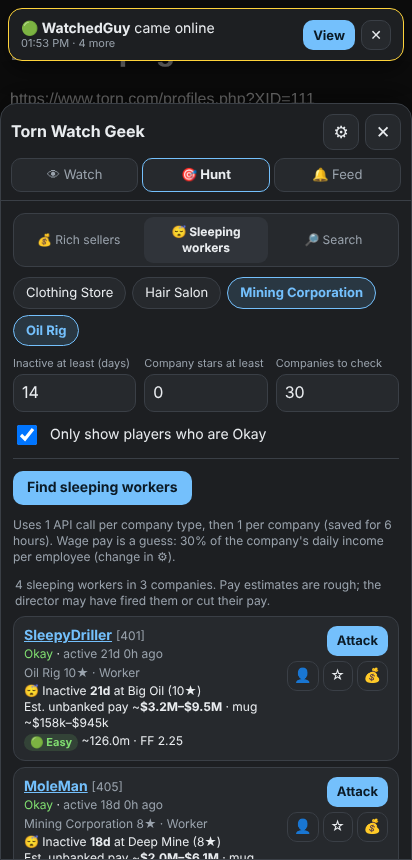
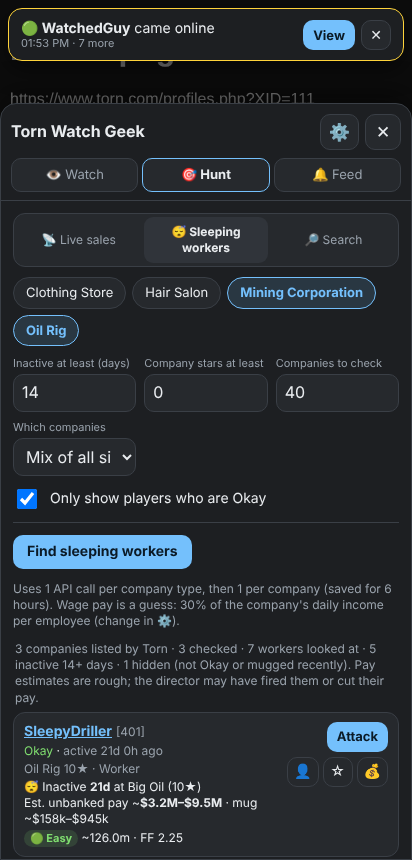
1.1.6: sleeping workers checks a mix of companies and reports every run
- Picks companies spread across the whole list by default (top companies
  fire inactive staff fast); 'Best pay first' still available.
- If Torn refuses the employees selection for other companies, falls back
  to the company profile instead of skipping the company.
- After each run: companies listed/checked, workers looked at, inactive
  found, hidden, failures with Torn's error, and the longest inactive
  worker seen when nothing matched.

Claude-Session: https://claude.ai/code/session_01QZib5gaoEbii82ger62EmG

diff --git a/torn-watch-geek.user.js b/torn-watch-geek.user.js
@@ -1,7 +1,7 @@
 // ==UserScript==
 // @name         Torn Watch Geek
 // @namespace    https://github.com/SarcasticGeekJr/torn-watch-geek
-// @version      1.1.5
+// @version      1.1.6
 // @description  Watch players (online, hospital, jail, flight landing times, bazaar and Item Market listings) and find mug targets: rich sellers, sleeping workers in high-paying companies, and your own advanced search, all with estimated battle stats and win chance. Built for Torn PDA, works in Tampermonkey too.
 // @author       SarcasticGeekJr
 // @match        https://www.torn.com/*
@@ -48,7 +48,7 @@
 
   // ---------------------------------------------------------------- config
   const PDA_KEY = "###PDA-APIKEY###"; // Torn PDA replaces this with your key at runtime
-  const VERSION = "1.1.5"; // keep in sync with @version above
+  const VERSION = "1.1.6"; // keep in sync with @version above
   const UPDATE_URL = "https://raw.githubusercontent.com/SarcasticGeekJr/torn-watch-geek/main/torn-watch-geek.user.js";
   const TORN = "https://api.torn.com";
   const FFS = "https://ffscouter.com/api/v1/get-stats";
@@ -102,7 +102,7 @@
     tab: "watch",
     hunt: "live",
     live: { running: false, min: 1000000, max: "", onlyAway: false, win: "", item: "", alertMin: 1000000, poolMax: 30, calls: 25 },
-    sleep: { types: [], days: 14, minStars: 0, companies: 30, okOnly: true },
+    sleep: { types: [], days: 14, minStars: 0, companies: 40, okOnly: true, pick: "mix" },
     search: {
       name: "", faction: "", lvlMin: "", lvlMax: "", inMin: "", inMax: "", okOnly: true, nwMin: "", offMin: "", offMax: "",
       ageMin: "", ageMax: "", gender: "", property: "", ctype: "", starsMin: "", starsMax: "", noClothing: true,
@@ -591,8 +591,18 @@
   async function getCompany(cid, opts = {}) {
     const c = CO[cid];
     if (c && c.emps && c.v === 2 && !opts.force && now() - c.t < COMPANY_TTL) return c;
-    // Workers come from the "employees" selection (company_employees); "profile" may leave them out.
-    const d = await torn(`/company/${cid}?selections=profile,employees`, COMPANY_TTL, opts);
+    // Workers may come with "profile" or only with "employees" (company_employees). Ask for both,
+    // and if Torn refuses "employees" for someone else's company, use the profile alone.
+    let d;
+    if (!getCompany.noEmployees) {
+      try {
+        d = await torn(`/company/${cid}?selections=profile,employees`, COMPANY_TTL, opts);
+      } catch (e) {
+        if (!/relation|access|permission|selection|field/i.test(e.message)) throw e;
+        getCompany.noEmployees = true;
+      }
+    }
+    if (!d) d = await torn(`/company/${cid}?selections=profile`, COMPANY_TTL, opts);
     const co = d.company || d;
     const emps = {};
     for (const [uid, e] of Object.entries(d.company_employees || co.employees || {})) {
@@ -1500,7 +1510,7 @@
       return;
     }
     const shown = rs.filter((r) => !r.hidden);
-    box.innerHTML = shown.length ? shown.slice(0, 80).map(resultCard).join("") : `<p class="muted hint">No players match. Try looser filters${S.hunt === "search" ? " or tap 'Find more players'" : ""}.</p>`;
+    box.innerHTML = shown.length ? shown.slice(0, 80).map(resultCard).join("") : `<p class="muted hint">${S.hunt === "sleep" ? "No sleeping workers found. See the report above." : "No players match. Try looser filters or tap 'Find more players'."}</p>`;
   }
   const drawSoon = (() => {
     let t = 0;
@@ -1706,6 +1716,7 @@
         <label>Inactive at least (days)<input data-f="days" type="number" inputmode="numeric" value="${esc(f.days)}"></label>
         <label>Company stars at least<input data-f="minStars" type="number" inputmode="numeric" min="0" max="10" value="${esc(f.minStars)}"></label>
         <label>Companies to check<input data-f="companies" type="number" inputmode="numeric" value="${esc(f.companies)}"></label>
+        <label>Which companies<select data-f="pick"><option value="mix" ${f.pick !== "top" ? "selected" : ""}>Mix (all sizes)</option><option value="top" ${f.pick === "top" ? "selected" : ""}>Best pay first</option></select></label>
       </div>
       <label class="tog"><input type="checkbox" data-f="okOnly" ${f.okOnly ? "checked" : ""}> Only show players who are Okay</label>
       <div class="row-btn"><button class="btn" data-act="sleepGo">Find sleeping workers</button></div>
@@ -1733,10 +1744,20 @@
         }
       }
       cos = cos.filter((c) => c.stars >= (+f.minStars || 0) && c.emp > 0).sort((a, b) => b.inc / b.emp - a.inc / a.emp || b.stars - a.stars);
-      cos = cos.slice(0, Math.max(1, Math.min(200, +f.companies || 30)));
+      const want = Math.max(1, Math.min(200, +f.companies || 40));
+      const listed = cos.length;
+      // Top companies fire inactive staff fast, so by default spread the picks across the whole list.
+      if (f.pick === "top" || cos.length <= want) cos = cos.slice(0, want);
+      else {
+        const step = cos.length / want;
+        cos = Array.from({ length: want }, (_, k) => cos[Math.floor(k * step)]);
+      }
       const minDays = +f.days || 14;
       const list = view.results.list;
-      let i = 0;
+      let i = 0,
+        failed = 0,
+        lastErr = "",
+        longest = null;
       for (const c of cos) {
         if (view.runId !== runId) return;
         i++;
@@ -1744,12 +1765,15 @@
         let co;
         try {
           co = await getCompany(c.cid, { hi: true });
-        } catch {
+        } catch (e) {
+          failed++;
+          lastErr = e.message;
           continue;
         }
         const perEmp = co.inc / Math.max(1, co.emp);
         for (const [uid, e] of Object.entries(co.emps)) {
           const inact = daysSince(e.la);
+          if (inact != null && (!longest || inact > longest.d)) longest = { d: inact, n: e.n, co: co.n };
           if (inact == null || inact < minDays) continue;
           const paidDays = Math.min(inact, e.dic || inact);
           const wage = (perEmp * (+S.wageShare || 30)) / 100;
@@ -1767,17 +1791,25 @@
         list.sort((a, b) => b.score - a.score);
         drawSoon();
       }
+      // A plain report of what was checked, so an empty list is never a mystery.
+      const report = () => {
+        const seenN = cos.reduce((a, c) => a + (CO[c.cid] ? Object.keys(CO[c.cid].emps || {}).length : 0), 0);
+        const hiddenN = list.filter((r) => r.hidden).length;
+        const bits = [`${listed} companies listed by Torn`, `${cos.length - failed} checked`, `${seenN} workers looked at`, `${list.length} inactive ${minDays}+ days`];
+        if (hiddenN) bits.push(`${hiddenN} hidden (not Okay or mugged recently)`);
+        if (failed) bits.push(`<span class="r">${failed} companies failed: ${esc(lastErr)}</span>`);
+        let tip = "";
+        if (!list.length && longest) tip = `<br>Longest inactive worker: <b>${Math.floor(longest.d)} days</b> (${esc(longest.n || "")} at ${esc(longest.co || "")}). Try a lower "Inactive at least", more companies, or "Which companies: Mix".`;
+        if (!seenN && !failed && cos.length) tip = `<br><span class="r">Torn sent no worker lists for these companies, so nothing could be checked.</span>`;
+        return bits.join(" · ") + tip;
+      };
       const shown = list.filter((r) => !r.hidden);
-      const seen = cos.reduce((a, c) => a + (CO[c.cid] ? Object.keys(CO[c.cid].emps || {}).length : 0), 0);
-      if (!seen && cos.length) {
-        setMsg(`<span class="r">Torn sent no worker lists for these ${cos.length} companies, so nothing could be checked.</span>`);
-        return;
-      }
-      setMsg(`${shown.length} sleeping workers in ${cos.length} companies (${seen} workers checked). Getting stats…`);
+      setMsg(report() + (shown.length ? " · getting stats…" : ""));
       drawResults();
+      if (!shown.length) return;
       await Promise.all(shown.slice(0, 80).map((r) => stats(r.id)));
       if (view.runId === runId) {
-        setMsg(`${shown.length} sleeping workers in ${cos.length} companies (${seen} workers checked). Pay estimates are rough; the director may have fired them or cut their pay.`);
+        setMsg(report() + ". Pay estimates are rough; the director may have fired them or cut their pay.");
         drawSoon();
       }
     } catch (e) {
